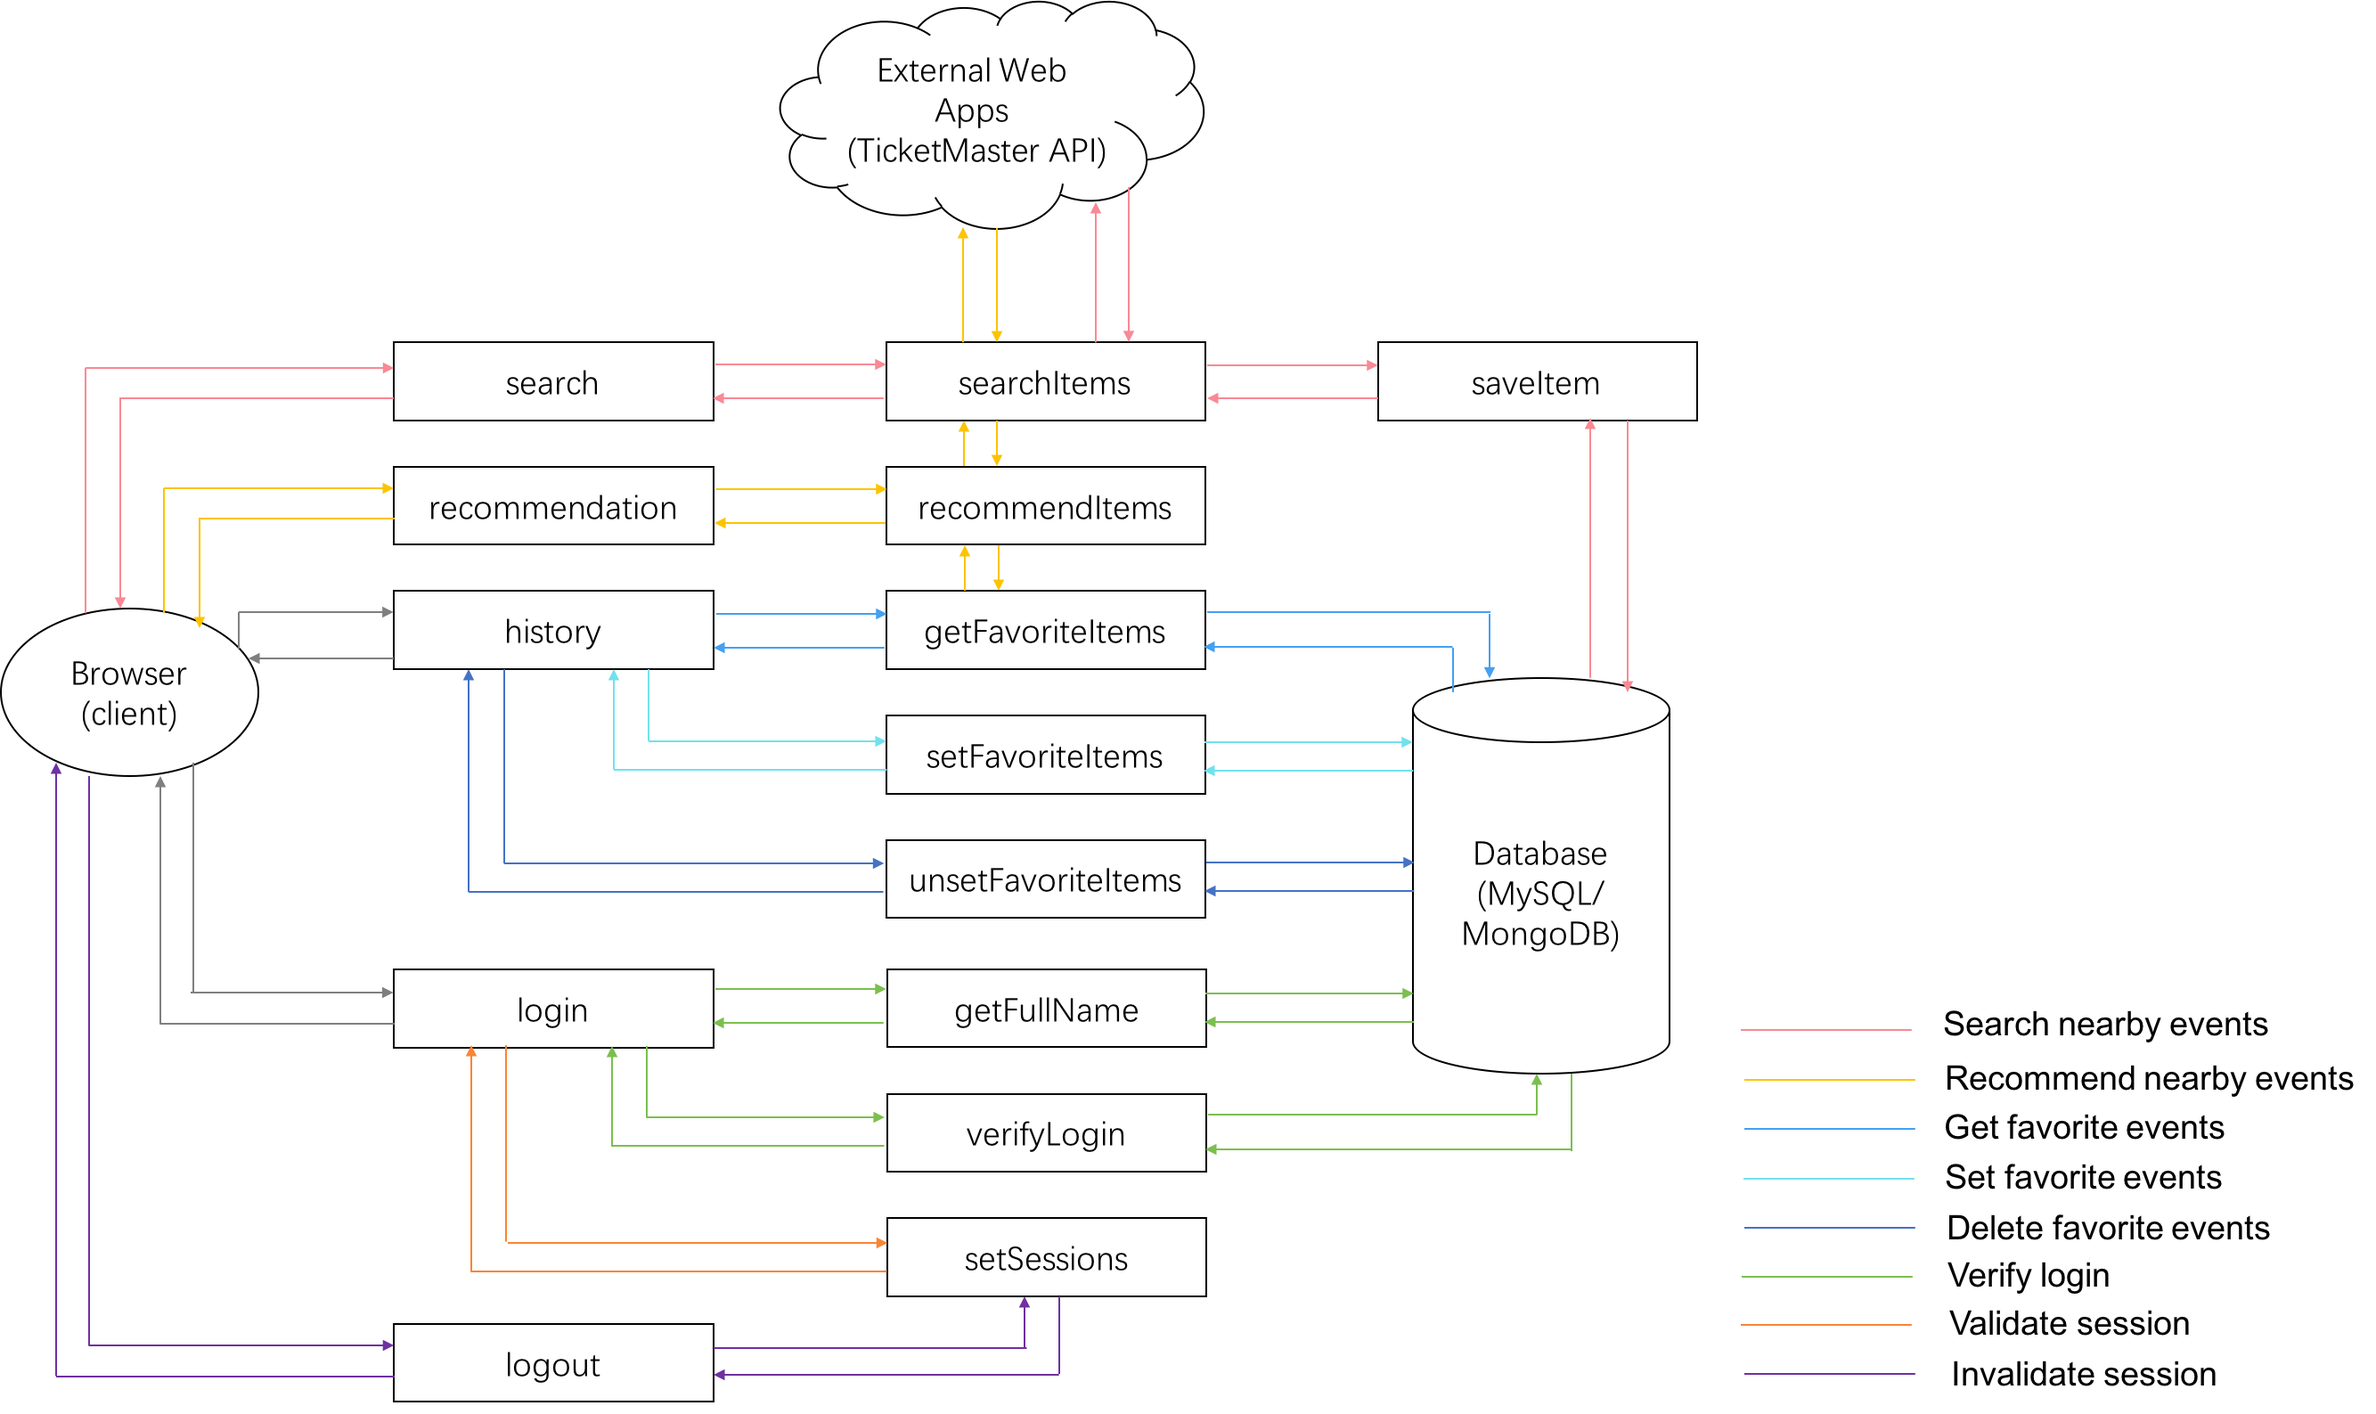
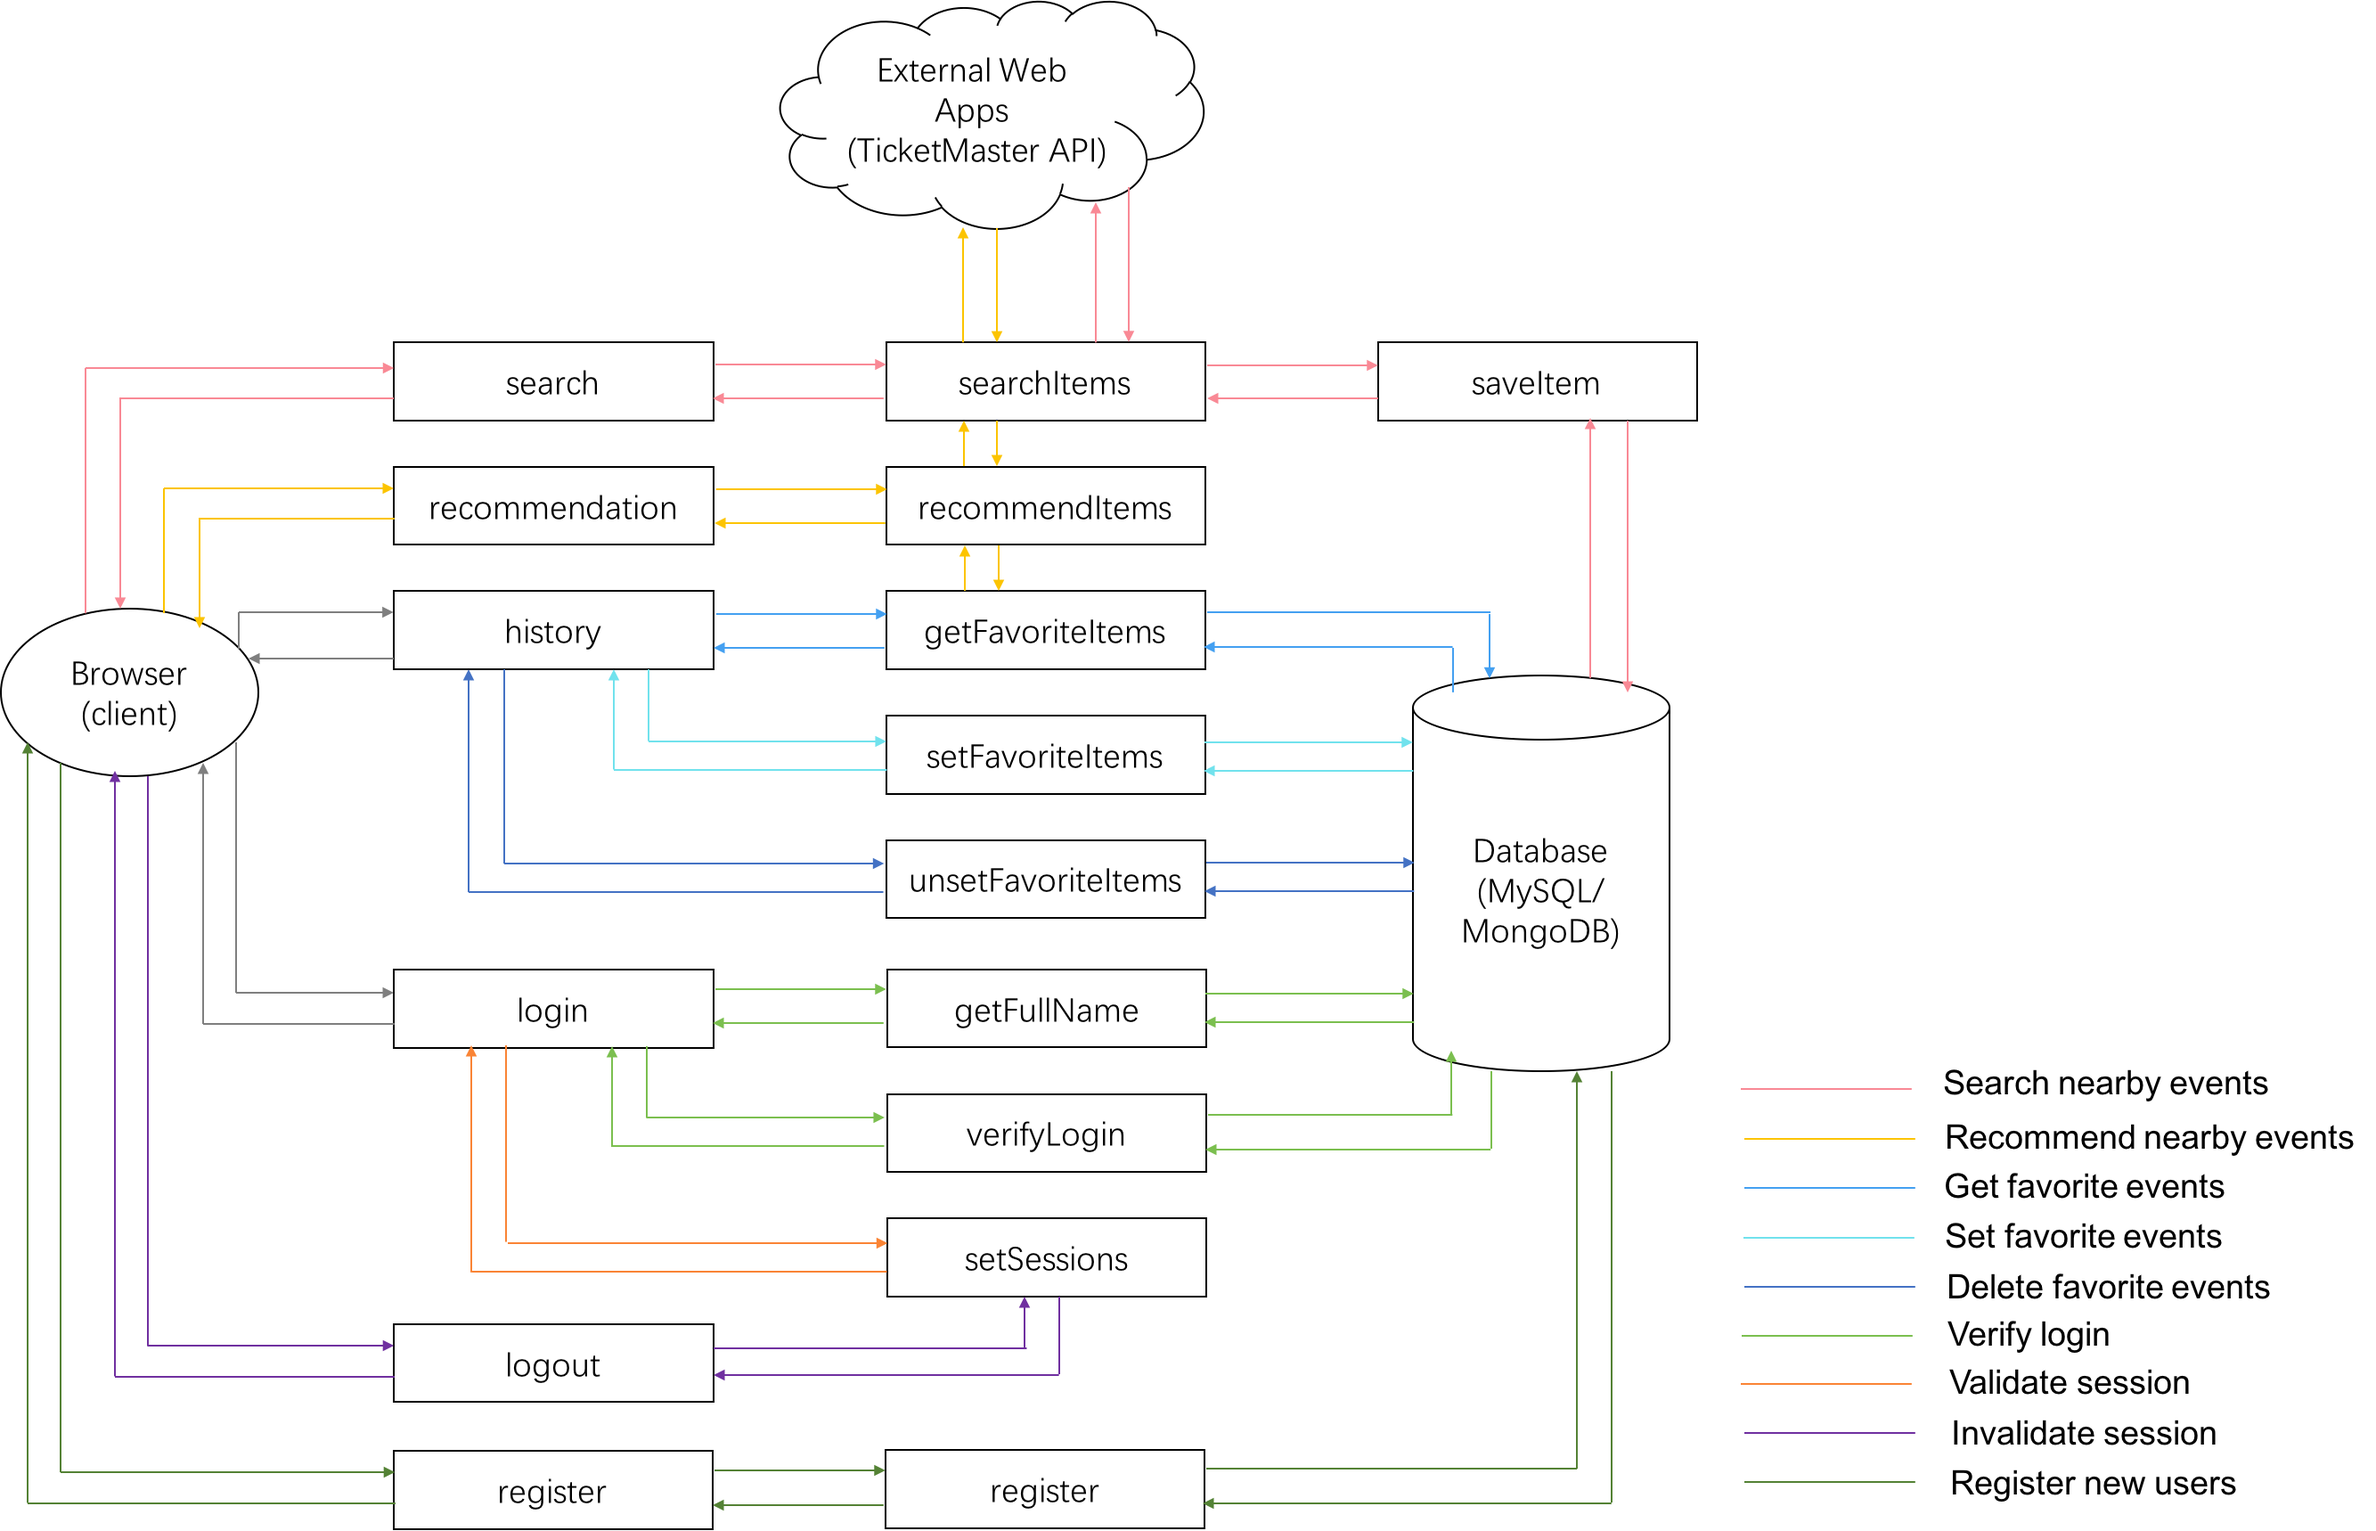
modify readme file adding Register part

diff --git a/README.md b/README.md
@@ -53,6 +53,9 @@
       * GET: invalid the session if exists and redirect to `index.html`
       * POST: the same as GET
       * return response
+   * Register
+      * Set a new user into users table/collection in database
+      * return response
 
 ![APIs design](https://raw.githubusercontent.com/Wangxh329/EventRecommendation/master/img_font_icon_sources/doc/APIs.png)
 > APIs design in logic tier
